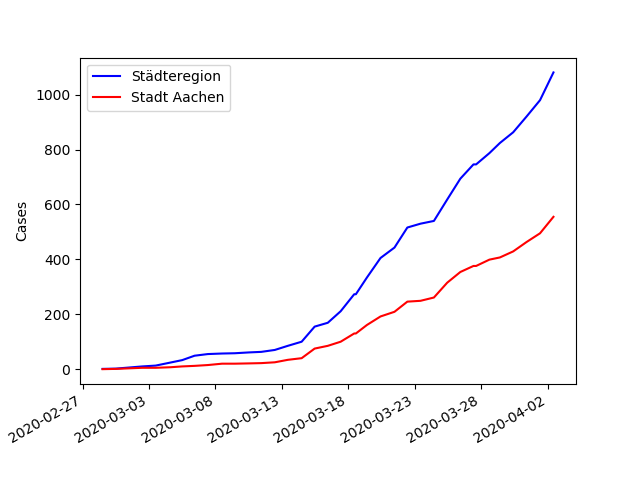
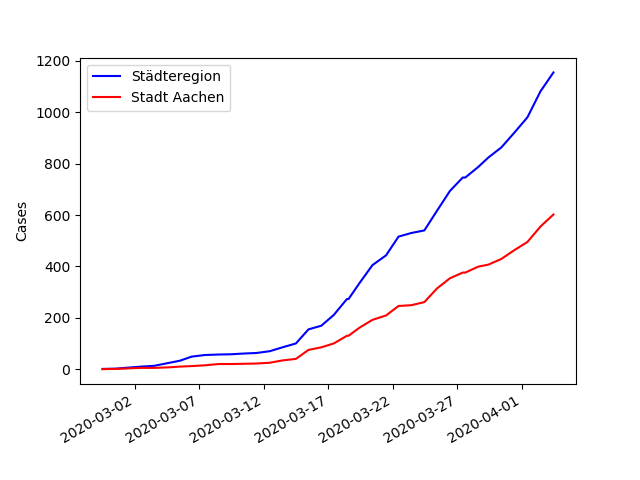
udpate covid19

diff --git a/content/blog/Covid19/main.py b/content/blog/Covid19/main.py
@@ -37,6 +37,8 @@ introduction = "The city of Aachen publishes (more or less) daily updates about 
 
 plotPic = "Below is the development of cases in the Städteregion Aachen and the city of Aachen: \n"
 plotPic = plotPic + "![Cases of Covid19](cases.png)" 
+plotPic = plotPic +  "And on a log scale: \n"
+plotPic = plotPic + "![Cases of Covid19 (log scale)](cases_log.png)" 
 plotPic = plotPic + "And the current death toll: \n"
 plotPic = plotPic + "![Deaths from Covid19](deaths.png)" 
 source = "Source: [Stadt Aachen](http://www.aachen.de/DE/stadt_buerger/notfall_informationen/corona/aktuelles/pressemitteilungen/index.html)"

diff --git a/content/blog/Covid19/index.md b/content/blog/Covid19/index.md
@@ -1,11 +1,12 @@
 --- 
  title: Covid19 in Aachen (Stadt und Städteregion) 
- date: "2020-04-02T16:42:15.000Z" 
+ date: "2020-04-03T11:49:14.000Z" 
 --- 
 The city of Aachen publishes (more or less) daily updates about Covid19. It's in the form of a daily press release, so I decided to collect this data to make it more usable for further processing ([google spread sheet](https://docs.google.com/spreadsheets/d/1Th4GSgmTpX4GtcebVDzIfRuCOu2cSOc2WJCORHcCw-Y)).
 
 Below is the development of cases in the Städteregion Aachen and the city of Aachen: 
-![Cases of Covid19](cases.png)And the current death toll: 
+![Cases of Covid19](cases.png)And on a log scale: 
+![Cases of Covid19 (log scale)](cases_log.png)And the current death toll: 
 ![Deaths from Covid19](deaths.png)And the year of birth of the deceased. Their average (median) year of birth was 1938. Which corresponds to an average age of 82.
 ![Year of Birth](year.png)And the gender distribution of the deceased. 62.0 % of victms were male.
 ![Gender](gender.png)
